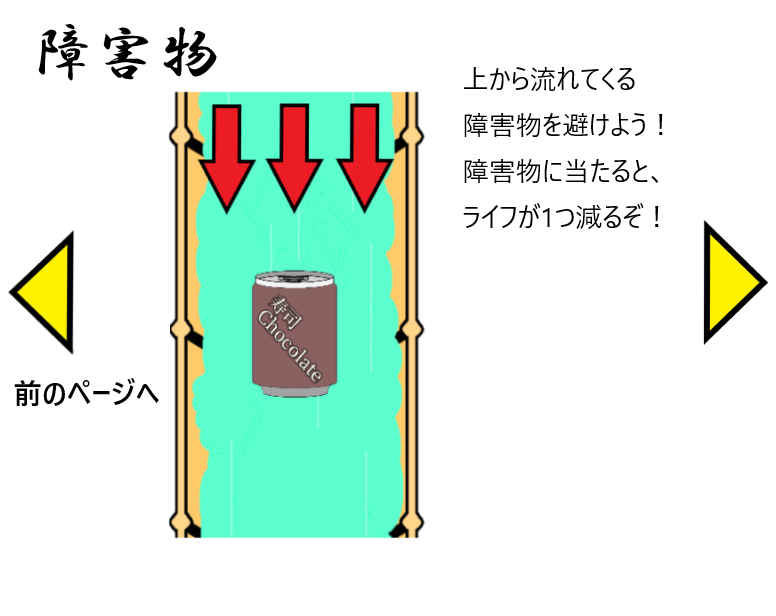
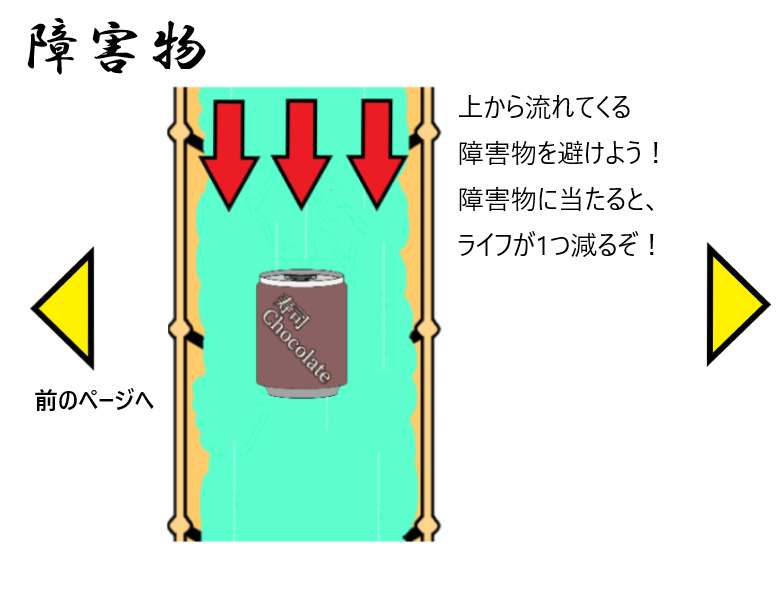
説明画面修正2 いやっっふううううううううう

Changed region(s): [[0.0, 0.0308, 0.866, 0.8945], [0.8969, 0.3701, 0.9897, 0.586]]

diff --git a/寿司チョコレート-流れ魚/寿司チョコレート-流れ魚/ObjTitle.cpp b/寿司チョコレート-流れ魚/寿司チョコレート-流れ魚/ObjTitle.cpp
@@ -118,7 +118,7 @@ void CObjTitle::Draw()
 		dst.m_top = 0.0f;
 		dst.m_left = 0.0f;
 		dst.m_right = 800.0f;
-		dst.m_bottom = 600.0f;
+		dst.m_bottom = 616.0f;
 	}
 	
 
